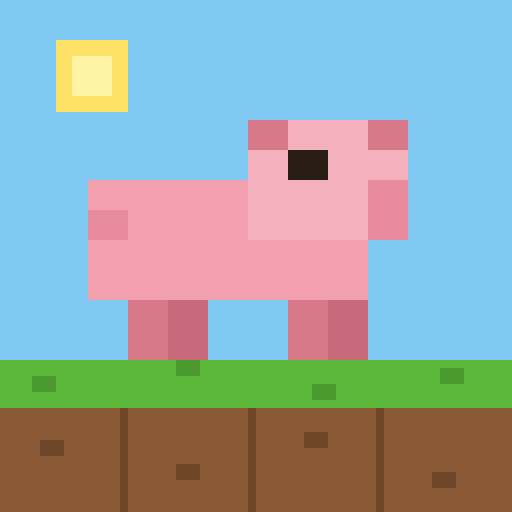
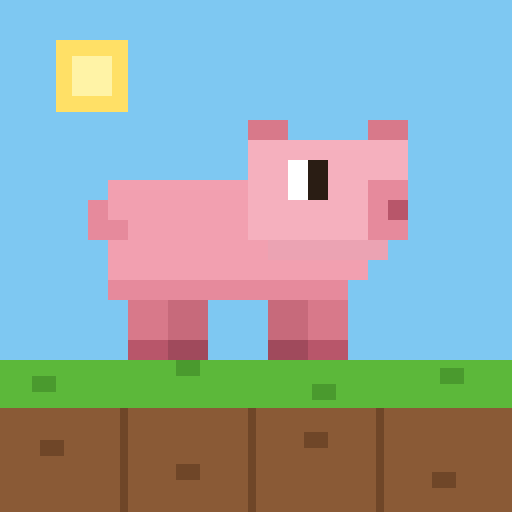
Gráficos a doble resolución: texturas de 16×16 y cerdito nuevo
- Texturas de los 13 bloques redibujadas a 16×16 (antes 8×8): ladrillos
  con junta, vetas de madera, cristal con reflejo, oro con destellos...
- Cerdito de 16×12 con ojo, hocico, orejas y pezuñas; dos pasos al andar
  y ojo cerrado al dormir. Se pinta desde sprites ya preparados en vez de
  a rectángulos en cada fotograma.
- Flor, antorcha y manzana como dibujos de letras, más fáciles de retocar.
- El icono de la app usa el mismo cerdito.
- Los mundos guardados no cambian: solo cambia cómo se pinta cada bloque.

Claude-Session: https://claude.ai/code/session_01NtQukjbpTJBBEKdA5ggaHB

diff --git a/index.html b/index.html
@@ -84,7 +84,7 @@ button:focus-visible{outline:3px solid var(--ink);outline-offset:2px}
 #tabGrid .c canvas{width:100%;height:100%;display:block;image-rendering:pixelated}
 #tabGrid .c.meta canvas{width:70%;height:70%}
 #tabPig{position:absolute;left:0;top:0;width:var(--c);height:var(--c);pointer-events:none;transition:transform .45s ease-in-out}
-#tabPig canvas{width:100%;height:100%;display:block}
+#tabPig canvas{width:100%;height:100%;display:block;image-rendering:pixelated}
 #tabPig.feliz canvas{animation:salto .5s ease-out 3}
 @keyframes salto{50%{transform:translateY(-25%)}}
 #fila{display:flex;flex-wrap:wrap;justify-content:center;gap:4px;max-width:max(calc(var(--c)*var(--cols)),148px)}
@@ -183,7 +183,7 @@ button:focus-visible{outline:3px solid var(--ink);outline-offset:2px}
 
 <script>
 (()=>{
-const T=8, COLS=48, ROWS=16, MAXPIGS=20;
+const T=16, COLS=48, ROWS=16, MAXPIGS=20;
 const BLOCKS=[
   {id:1,name:'Hierba'},{id:2,name:'Tierra'},{id:3,name:'Piedra'},{id:4,name:'Madera'},
   {id:5,name:'Hojas'},{id:6,name:'Arena'},{id:7,name:'Agua'},{id:8,name:'Ladrillo'},
@@ -194,40 +194,69 @@ const PLURAL={2:'bloques de tierra',3:'bloques de piedra',4:'bloques de madera',
 const NUM=['cero','uno','dos','tres','cuatro','cinco','seis','siete','ocho','nueve','diez','once','doce','trece','catorce','quince','dieciséis','diecisiete','dieciocho','diecinueve','veinte'];
 const NOSOLID={7:1,11:1,13:1}, TRANSP={7:.8,9:.55};
 
-// --- texturas pixeladas generadas ---
+// --- texturas pixeladas generadas (16×16) ---
 function rng(s){return()=>{s=(s*1664525+1013904223)>>>0;return s/4294967296}}
 function shade(hex,f){const n=parseInt(hex.slice(1),16);let r=n>>16,g=n>>8&255,b=n&255;
   r=Math.max(0,Math.min(255,r*f|0));g=Math.max(0,Math.min(255,g*f|0));b=Math.max(0,Math.min(255,b*f|0));return`rgb(${r},${g},${b})`}
-function noiseTex(c,base,amt,seed){const r=rng(seed);for(let y=0;y<T;y++)for(let x=0;x<T;x++){c.fillStyle=shade(base,1+(r()-.5)*amt);c.fillRect(x,y,1,1)}}
+function lienzo(w,h){const cv=document.createElement('canvas');cv.width=w;cv.height=h;return cv}
+// ruido en dos capas (manchas de 2×2 y grano fino encima) para que no parezca la nieve de un televisor
+function noiseTex(c,base,amt,seed){const r=rng(seed),m=[];for(let i=0;i<T*T/4;i++)m.push(r());
+  for(let y=0;y<T;y++)for(let x=0;x<T;x++){c.fillStyle=shade(base,1+((m[(y>>1)*(T/2)+(x>>1)]-.5)*.7+(r()-.5)*.5)*amt);c.fillRect(x,y,1,1)}}
+function rects(c,col,list){c.fillStyle=col;list.forEach(([x,y,w,h])=>c.fillRect(x,y,w||1,h||1))}
+// dibujo hecho con letras: cada letra es un color de la paleta y el punto, transparente
+function sprite(rows,pal){const cv=lienzo(rows[0].length,rows.length),c=cv.getContext('2d');
+  rows.forEach((row,y)=>[...row].forEach((ch,x)=>{if(pal[ch]){c.fillStyle=pal[ch];c.fillRect(x,y,1,1)}}));return cv}
 const tex={};
 function makeTex(id){
-  const cv=document.createElement('canvas');cv.width=cv.height=T;const c=cv.getContext('2d');
+  const cv=lienzo(T,T),c=cv.getContext('2d'),r=rng(id*97+1);
+  const motas=(col,n)=>{c.fillStyle=col;for(let i=0;i<n;i++)c.fillRect(r()*T|0,r()*T|0,1,1)};
   switch(id){
-    case 1: noiseTex(c,'#8a5a36',.35,1);{const r=rng(9);for(let x=0;x<T;x++){const h=2+(r()*2|0);for(let y=0;y<h;y++){c.fillStyle=shade('#5cb83a',1+(r()-.5)*.35);c.fillRect(x,y,1,1)}}}break;
-    case 2: noiseTex(c,'#8a5a36',.4,2);break;
-    case 3: noiseTex(c,'#8b8f94',.3,3);c.fillStyle='#6e7276';c.fillRect(1,2,2,1);c.fillRect(5,5,2,1);c.fillRect(4,1,1,1);break;
-    case 4: for(let x=0;x<T;x++){c.fillStyle=x%3==0?'#6b4626':'#9c6a3c';c.fillRect(x,0,1,T)}c.fillStyle='#5a3a1e';c.fillRect(2,3,1,2);c.fillRect(6,5,1,1);break;
-    case 5: noiseTex(c,'#3f9a34',.55,5);{const r=rng(55);for(let i=0;i<6;i++){c.fillStyle='#2b6e24';c.fillRect(r()*T|0,r()*T|0,1,1)}}break;
-    case 6: noiseTex(c,'#e9d79a',.18,6);break;
-    case 7: noiseTex(c,'#3a7fd9',.15,7);c.fillStyle='#7fb6f0';c.fillRect(1,1,3,1);c.fillRect(4,5,3,1);break;
-    case 8: c.fillStyle='#c7c2b8';c.fillRect(0,0,T,T);{const r=rng(8);for(let row=0;row<4;row++){const off=row%2?2:0;for(let b=-1;b<2;b++){c.fillStyle=shade('#b34a33',1+(r()-.5)*.3);c.fillRect(b*4+off,row*2,3,1)}}}break;
-    case 9: c.fillStyle='#cdeefa';c.fillRect(0,0,T,T);c.fillStyle='#ffffff';c.fillRect(1,1,1,3);c.fillRect(2,1,1,1);c.fillStyle='#8cc7dc';c.fillRect(0,0,T,1);c.fillRect(0,T-1,T,1);c.fillRect(0,0,1,T);c.fillRect(T-1,0,1,T);break;
-    case 10: noiseTex(c,'#f2c230',.25,10);c.fillStyle='#fff3a6';c.fillRect(1,1,2,1);c.fillRect(5,4,1,2);c.fillStyle='#b8860b';c.fillRect(3,6,2,1);break;
-    case 11: c.fillStyle='#3f9a34';c.fillRect(3,4,1,4);c.fillRect(4,6,1,1);c.fillStyle='#e8414b';c.fillRect(2,1,3,3);c.fillStyle='#ffd43b';c.fillRect(3,2,1,1);break;
-    case 12: noiseTex(c,'#f4f8fb',.08,12);c.fillStyle='#d6e4ee';c.fillRect(2,3,1,1);c.fillRect(6,6,1,1);break;
-    case 13: c.fillStyle='#6b4626';c.fillRect(3,3,2,5);c.fillStyle='#ff7a1a';c.fillRect(3,0,1,1);c.fillRect(2,1,4,2);c.fillStyle='#ffd43b';c.fillRect(3,1,2,2);c.fillStyle='#fff3a6';c.fillRect(3,2,1,1);break;
+    case 1: noiseTex(c,'#8a5a36',.35,1); // hierba: tierra con un manto verde de borde irregular
+      for(let x=0;x<T;x++){const h=4+(r()*3|0);for(let y=0;y<h;y++){c.fillStyle=shade('#5cb83a',(y===0?1.12:y===h-1?.8:1)+(r()-.5)*.22);c.fillRect(x,y,1,1)}}break;
+    case 2: noiseTex(c,'#8a5a36',.38,2);rects(c,'#6f4628',[[2,3,2],[10,1,2],[6,8,2],[13,11,2],[3,13,2],[9,5]]);rects(c,'#a87044',[[5,2],[12,6],[1,9],[8,12],[14,3]]);break;
+    case 3: noiseTex(c,'#8b8f94',.2,3);rects(c,'#6e7276',[[1,3,4],[9,2,3],[5,7,5],[12,9,3],[2,11,3],[8,13,4],[0,6],[15,5]]);rects(c,'#a6aaae',[[2,2,3],[6,6,3],[9,12,3],[13,8,2]]);break;
+    case 4:{const veta=[.72,1,1.06,.96,1,.74,1.04,.98,1,1.05,.72,1,.95,1.04,1,.76]; // madera: vetas verticales y surcos de corteza
+      for(let x=0;x<T;x++)for(let y=0;y<T;y++){c.fillStyle=shade('#9c6a3c',veta[x]*(1+(r()-.5)*.1));c.fillRect(x,y,1,1)}
+      rects(c,'#5a3a1e',[[3,3,1,3],[12,8,1,4],[7,12,1,3],[13,1,1,2],[2,10,1,2]])}break;
+    case 5: noiseTex(c,'#3f9a34',.45,5);motas('#2b6e24',18);motas('#5cc04a',12);break;
+    case 6: noiseTex(c,'#e9d79a',.13,6);motas('#cdbb7e',10);motas('#f6e8b4',6);break;
+    case 7: noiseTex(c,'#3a7fd9',.1,7);rects(c,'#7fb6f0',[[1,2,5],[9,4,5],[3,8,6],[11,11,4],[1,13,4]]);rects(c,'#2f6cc0',[[2,3,4],[10,5,4],[4,9,5],[12,12,3]]);break;
+    case 8: c.fillStyle='#c7c2b8';c.fillRect(0,0,T,T); // ladrillos de 7×3 con junta, una hilera sí y otra no desplazada
+      for(let row=0;row<4;row++)for(let b=-1;b<3;b++){const x=b*8+(row%2?4:0),y=row*4,f=1+(r()-.5)*.25;
+        rects(c,shade('#b34a33',f),[[x,y,7,3]]);rects(c,shade('#b34a33',f*1.14),[[x,y,7,1]]);rects(c,shade('#b34a33',f*.84),[[x,y+2,7,1]])}break;
+    case 9: c.fillStyle='#cdeefa';c.fillRect(0,0,T,T);rects(c,'#8cc7dc',[[0,0,T,1],[0,T-1,T,1],[0,0,1,T],[T-1,0,1,T]]);
+      rects(c,'#ffffff',[[5,2,2],[4,3,2],[3,4,2],[2,5,2],[12,9],[11,10],[10,11],[9,12]]);break;
+    case 10: noiseTex(c,'#f2c230',.2,10);rects(c,'#ffe27a',[[0,0,T,1],[0,0,1,T]]);rects(c,'#b8860b',[[0,T-1,T,1],[T-1,0,1,T]]);
+      rects(c,'#fff3a6',[[4,3],[3,4,3],[4,5],[11,9],[10,10,3],[11,11]]);rects(c,'#c9981a',[[8,5,3],[4,9,2],[6,12,3],[12,4,2]]);break;
+    case 11: tex[id]=sprite([
+      '................','......RRRR......','.....RRRRRR.....','....RRRYYRRR....','....RRYyyYRR....','....RRYyyYRR....','....rRRYYRRr....','.....rrRRrr.....',
+      '......rrrr......','.......Gg.......','.......Gg.......','...GG..Gg.......','....GGGGg.gG....','.......GgGG.....','.......Gg.......','.......Gg.......'],
+      {R:'#e8414b',r:'#c22f3a',Y:'#ffd43b',y:'#f2a71b',G:'#3f9a34',g:'#2b6e24'});return;
+    case 12: noiseTex(c,'#f4f8fb',.05,12);rects(c,'#d6e4ee',[[2,3],[6,6],[11,2],[13,9],[4,11],[9,13],[7,9,2]]);break;
+    case 13: tex[id]=sprite([
+      '.......O........','......OOO.......','......OYO.......','.....OYYYO......','.....OYWYO......','......OWO.......','......BBb.......','......BBb.......',
+      '.......Bb.......','.......Bb.......','.......Bb.......','.......Bb.......','.......Bb.......','.......Bb.......','.......Bb.......','.......Bb.......'],
+      {O:'#ff7a1a',Y:'#ffd43b',W:'#fff3a6',B:'#8a5a36',b:'#6b4626'});return;
   }
   tex[id]=cv;
 }
 BLOCKS.forEach(b=>makeTex(b.id));
 // la manzana que busca el cerdito en el reto de las flechas
-{const cv=document.createElement('canvas');cv.width=cv.height=T;const c=cv.getContext('2d');
-  c.fillStyle='#e8414b';c.fillRect(1,2,6,5);c.fillRect(0,3,8,3);c.fillRect(2,7,4,1);
-  c.fillStyle='#b8323b';c.fillRect(6,5,2,1);c.fillRect(5,6,2,1);c.fillRect(4,7,2,1);
-  c.fillStyle='#ffb3b8';c.fillRect(1,3,1,2);
-  c.fillStyle='#6b4626';c.fillRect(4,0,1,3);
-  c.fillStyle='#5cb83a';c.fillRect(5,0,2,1);c.fillRect(5,1,1,1);
-  tex.manzana=cv}
+tex.manzana=sprite([
+  '................','.........GG.....','.......B.GGg....','.......B..g.....','....RRRBRRRR....','...RRRRRRRRRR...','..RRWRRRRRRRRr..','..RWWRRRRRRRRr..',
+  '..RWRRRRRRRRrr..','..RRRRRRRRRRrr..','..RRRRRRRRRrrr..','...RRRRRRRrrr...','...RRRRRRrrrr...','....RRRRrrrr....','.....RRr.rr.....','................'],
+  {R:'#e8414b',r:'#b8323b',W:'#ffb3b8',B:'#6b4626',G:'#5cb83a',g:'#3f9a34'});
+// cerdito de 16×12: dos pasos al andar y dormido, mirando a la derecha y a la izquierda
+const pigTex={};
+{const pal={P:'#f2a0b0',p:'#e68a9c',H:'#f5b0be',h:'#eba3b3',E:'#d8798a',N:'#e68a9c',n:'#b8566a',K:'#2a1d14',W:'#ffffff',T:'#e68a9c',L:'#d8798a',l:'#c76a7b',D:'#b8566a',d:'#a04a5c'};
+  const cuerpo=['........EE....EE','........HHHHHHHH','........HHWKHHHH','.PPPPPPPHHWKHHNN','TPPPPPPPHHHHHHNn','TTPPPPPPHHHHHHNN','.PPPPPPPPhhhhhh.','.PPPPPPPPPPPPP..','.pppppppppppp...'];
+  const patas=[['..LLll...llLL...','..LLll...llLL...','..DDdd...ddDD...'],['..LLll...llLL...','..LLdd...ddLL...','..DD.......DD...']];
+  const pon=(s,x,t)=>s.slice(0,x)+t+s.slice(x+t.length);
+  [0,1].forEach(leg=>[0,1].forEach(zz=>{const rows=cuerpo.concat(patas[leg]);
+    if(zz){rows[2]=pon(rows[2],10,'HH');rows[3]=pon(rows[3],10,'KK')} // ojo cerrado
+    const a=sprite(rows,pal),b=lienzo(16,12),bc=b.getContext('2d');bc.translate(16,0);bc.scale(-1,1);bc.drawImage(a,0,0);
+    pigTex[`${leg}${zz}0`]=a;pigTex[`${leg}${zz}1`]=b}))}
+const pigImg=(izq,leg,dormido)=>pigTex[`${leg?1:0}${dormido?1:0}${izq?1:0}`];
 
 // --- estado ---
 const cv=document.getElementById('cv'),ctx=cv.getContext('2d'),wrap=document.getElementById('world');
@@ -474,13 +503,13 @@ function renderTab(){
     else if(x===r.fx&&y===r.fy&&!r.ok){c.classList.add('meta');c.appendChild(texCanvas('manzana'))}
     gr.appendChild(c)}
   const p=document.createElement('div');p.id='tabPig';if(r.ok)p.className='feliz';
-  const pc=document.createElement('canvas');pc.width=pc.height=64;p.appendChild(pc);gr.appendChild(p);
+  const pc=document.createElement('canvas');pc.width=pc.height=T;p.appendChild(pc);gr.appendChild(p);
   pigTo(r.x,r.y);drawFila();
 }
 function pigTo(x,y,d){ // coloca el cerdito del tablero; al cambiar de casilla se desliza solo (transición CSS)
   const r=reto,p=$('tabPig');if(!r||!p)return;
   if(d&&d.dx)r.izq=d.dx<0;
-  const c=p.firstChild.getContext('2d');c.clearRect(0,0,64,64);pigPx(c,0,0,64,r.izq,0,false);
+  const c=p.firstChild.getContext('2d');c.clearRect(0,0,T,T);c.drawImage(pigImg(r.izq,0,false),0,4);
   p.style.transform=`translate(${x*tabC}px,${y*tabC}px)`;
 }
 function pista(r){ // tras el segundo intento fallido: las flechas que faltan, marcadas en los huecos de la fila
@@ -705,17 +734,9 @@ cv.addEventListener('pointermove',e=>{if(painting&&(mode==='put'||mode==='dig'))
 ['pointerup','pointercancel'].forEach(ev=>cv.addEventListener(ev,()=>{painting=false;lastCell=null}));
 
 // --- dibujo ---
-function pigPx(c,x,y,sz,f,leg,asleep){ // cerdito pixelado de sz×sz con la esquina de arriba a la izquierda en x,y
-  const s=sz/8;y+=sz*.25;
-  const px=(a,b,w,h,col)=>{c.fillStyle=col;c.fillRect(f?x+sz-(a+w)*s:x+a*s,y+b*s*.75,w*s,h*s*.75)};
-  px(1,6,1,2,'#d8798a');px(5,6,1,2,'#d8798a');px(2,6,1,2-leg,'#c76a7b');px(6,6,1,2-leg,'#c76a7b');
-  px(0,2,7,4,'#f2a0b0');px(4,0,4,4,'#f5b0be');px(4,0,1,1,'#d8798a');px(7,0,1,1,'#d8798a');
-  px(7,2,1,2,'#e68a9c');px(0,3,1,1,'#e68a9c');
-  if(asleep)px(5,1,2,.5,'#2a1d14');else px(5,1,1,1,'#2a1d14');
-}
 function drawPig(p,asleep){
   const x=p.x*S,y=p.y*S+S*.25;
-  pigPx(ctx,x,p.y*S,S,p.vx<0,(!asleep&&Math.floor(p.t/8)%2)?1:0,asleep);
+  ctx.drawImage(pigImg(p.vx<0,!asleep&&Math.floor(p.t/8)%2,asleep),x,y,S,S*.75);
   if(p.joy>0){ctx.fillStyle='#e8414b';ctx.font=`${S*.4}px system-ui`;ctx.fillText('❤',x+S*.3,y-S*.2-(40-Math.min(40,p.joy))*.5)}
   else if(asleep){ctx.fillStyle='#fff6e0';ctx.font=`${S*.28}px "Press Start 2P",monospace`;ctx.fillText('z',x+S*.75,y-S*.1-Math.sin((fr+p.t)/25)*3)}
 }

diff --git a/README.md b/README.md
@@ -35,6 +35,8 @@ icon.svg, *.png       iconos (los PNG salen del SVG)
 fonts/                Press Start 2P alojada en el repo (licencia OFL en fonts/OFL.txt)
 ```
 
+Los gráficos no son imágenes: las texturas de los bloques (16×16), el cerdito (16×12), la flor, la antorcha y la manzana se dibujan por código al arrancar, en la sección "texturas pixeladas generadas" de `index.html`. Los que tienen forma se escriben como dibujos de letras, una letra por color.
+
 El progreso (mundo, estrellas, nivel, voz) se guarda solo en el dispositivo (`localStorage`).
 
 Un tipo de reto nuevo se añade en cuatro sitios de `index.html`: `startReto` (lo prepara), `phrase` (lo que dice la voz), `progress` (cuánto lleva) y `winText` (lo que dice al ganar).
